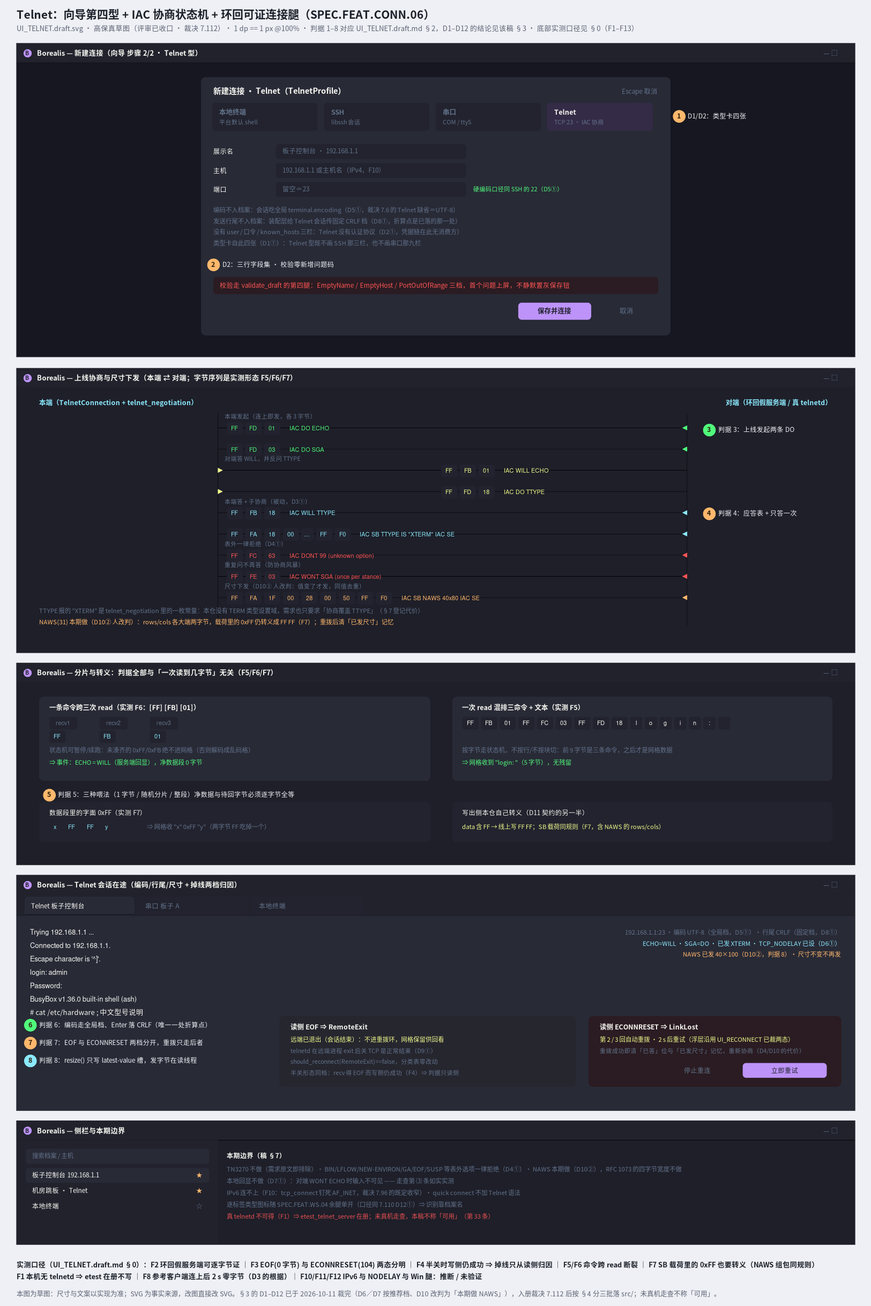
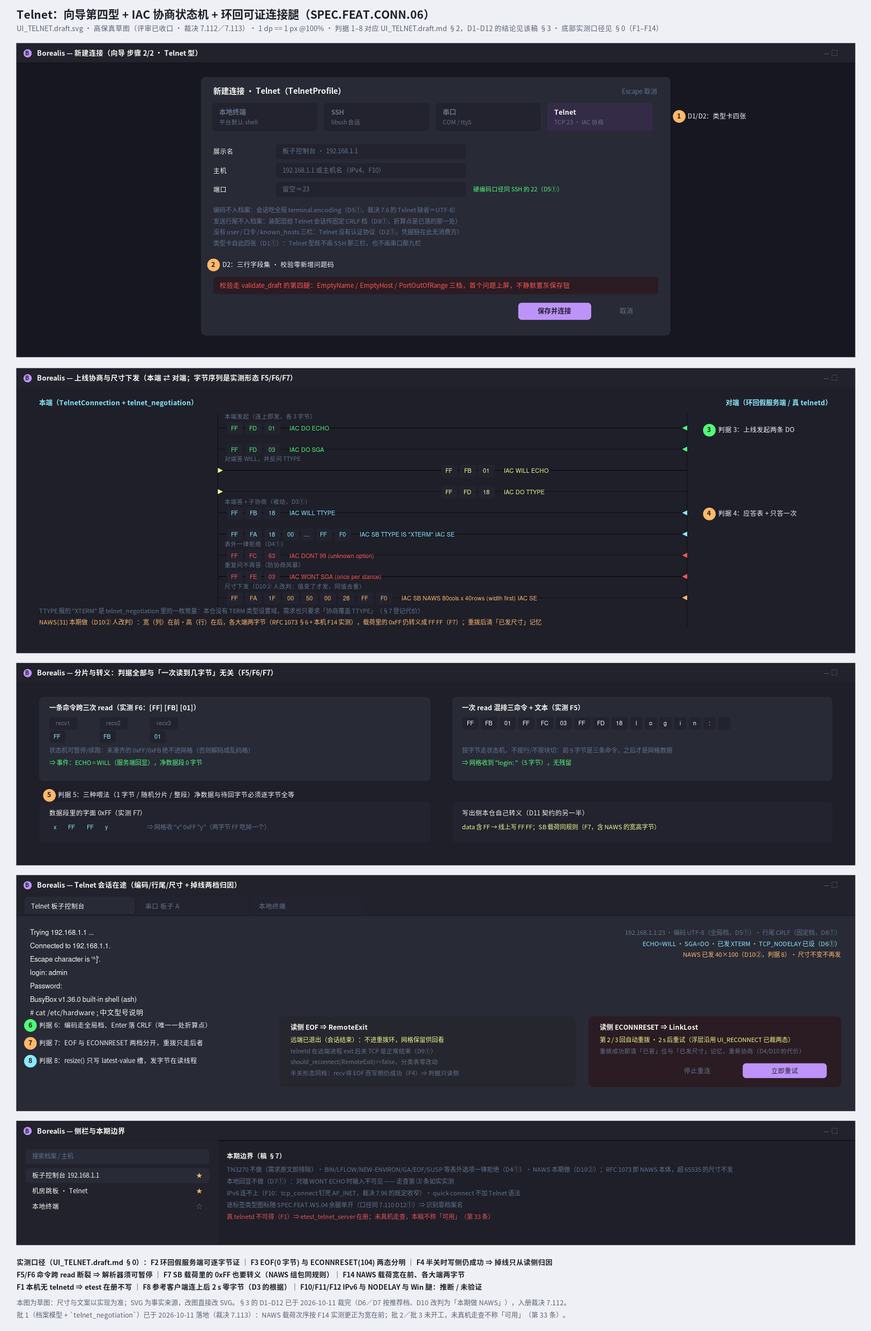
docs: 并入裁决 7.113 与 v0.113，NAWS 次序按 F14 实测改口
为什么：批 1 落地（`SPEC.FEAT.CONN.06`）时按 AGENTS §4.2 第 12 条把实现期
发现的口径差回写——稿面判据 8 原写 NAWS 载荷「rows 在前」，与 RFC 1073 §2
语法行、§6 例子（80 列×24 行 ⇒ `0 80 0 24`）以及本机 inetutils 2.7 客户端在
20 行×60 列 pty 上实测回的 `FF FA 1F 00 3C 00 14 FF F0`（新增读数 F14）三者
相反，代码按实测落，稿 §0／§2／§3／§4／§5／§6／§7／§8 与 SVG 一并照此改口；
同一条更正撤掉稿 §7 与裁决 7.112 ④「RFC 1073 是四字节宽度扩展」的错引（1073
就是 NAWS 本体，只有 `2+2` 字节），旧句按「就地更正 + 不重写历史」的既有体例
处理：SPECIFICATIONS 的 7.112 行内挂更正注，CHANGELOG 的 v0.112 条目原文不动。

口径与代价：⑴ 裁决 7.113 记六条——F14 改口、按字节可暂停状态机的契约、发起序
呼用即记账（`WONT ECHO` 是 D7① 线上唯一可见格）、同值去重比对源是「上一次真的
发出去的」、对端 `DONT NAWS` 只记状态位不停发（与规程文本的差集登记，真服务器
反应归稿 §6 走查第 ⑷ 条）、稿 §4 两处布局说法回写（JSON 读写在 `store.cpp`，
`profile.cpp` 补的是 `search()` 主机命中腿；`borealis_core` 源列表是显式清单）。
⑵ CONN.06 现状句与 `PLAN.md` 的 M4 行同步为「批 1 已落地、批 2/批 3 未开工」，
读数 78 项／963 案全绿，四条变异自证非空转。⑶ SVG 三处随文字改：屏 B 的 NAWS
字节行标号改 ASCII（原「80 列 × 40 行」在 monospace 档下 CJK 掉字）、屏 B caption
「高在前」笔误改「高（行）在后」、底部五条长行重排并把画布加高到 2384 以免裁字；
重出 PNG 后逐屏目检过。⑷ AGENTS.md §7 那句「新增 .cpp 经 GLOB 自动进构建」的
不准确处本条**不改**：该文件 8123 字节、离 8 KiB 静默截断线只剩 69 字节，加不进
这句更正，口径先记在裁决 7.113⑥ 与 v0.113 代价段。⑸ 本条零 `src/` 改动，用户侧
仍不可达，不称「可用」（§4.4 第 33 条）。

diff --git a/codespec/SPECIFICATIONS.md b/codespec/SPECIFICATIONS.md
@@ -227,7 +227,7 @@
 
 **SPEC.FEAT.CONN.05 串口终端** 串口枚举、波特率/数据位/停止位/校验/流控完整配置、断开重连、连接中热改波特率；默认编码 GB18030（见 SPEC.FEAT.TERM.09 / 裁决 7.6）；**发送行尾序列可配**（CR / LF / CRLF，默认 LF——发错设备无响应，属嵌入式调试刚需）；可选十六进制收发视图与行首时间戳前缀（延后子项）。**落地现状（2026-10-11，裁决 7.110）**：设计稿三件套 `codespec/UI_SERIAL.draft.{md,svg,png}`（五屏 A–E、圈号判据 1–7）**已收口**——D1–D13 经人裁为**全按推荐档、无一条改判**；交付面按稿 §4 分三批（批 1＝档案模型 + `conn::serial_model` + `platform::serial` 两腿 + `flow` 键，批 2＝`conn::serial_connection` + `Session` 行尾折算 + 替身设备 `itest`，批 3＝向导第三型 + `ui::serial_format` + `main.cpp` 装配）。**批 1–3 已全部落地（2026-10-11，裁决 7.107→7.111 的串口段：批 1＝`830a375`、批 2＝`740de20`、批 3 见裁决 7.111）——从档案到在途会话的串口通路在装配层完整，`src/main.cpp` 的两条 `TODO(SPEC.FEAT.CONN.05)` 全部闭合；真机走查六条未做，本条不称「可用」**。稿 §0 的十条本机实测读数（F1–F10）钉住可证面：真设备节点存在而 `open()` 回 EACCES ⇒ 帧格式与调制解调器线状态在 `pty` 替身上**不可判**，热改波特率的「写下去并回读相符」在替身上**可证**，Win32 腿标**推断／未验证**。批 3 落地期的四处拍板（设备行「可见行产值」、置灰经 `paint_item` 扩展点、一次枚举闸门经变异判为死重量而删除、`serial_format` 少落一族「CloseReason→串口文案」）见裁决 **7.111**。
 
-**SPEC.FEAT.CONN.06 Telnet** 基础 Telnet 客户端（不含 TN3270）；选项协商覆盖 ECHO / SGA / TTYPE；编码按 SPEC.FEAT.TERM.09 可配。**落地现状（2026-10-11，裁决 7.112）**：设计稿三件套 `codespec/UI_TELNET.draft.{md,svg,png}`（五屏 A–E、圈号判据 1–8）**已收口**——稿 §3 的 D1–D12 经人逐条裁决：**D6／D7 按推荐档，D10 改判「本期顺带做 `NAWS`(31)」**，其余九条按推荐档收口。交付面按稿 §4 分三批（批 1＝档案模型 + `conn::telnet_negotiation` 纯逻辑件与其 `utest`，批 2＝`conn::telnet_connection` + `platform::TcpStream::set_nodelay` + 环回 `itest`，批 3＝向导第四型 + `main.cpp` 装配）；**三批均未开工，本条不称「可用」**（AGENTS §4.4 第 33 条）。稿 §0 的十三条本机实测读数（F1–F13）钉住可证面：本机无 telnetd ⇒ `etest_telnet_server` 在册不写，而**环回假服务端可把整条 IAC 协商腿逐字节证**（本棒可证面强于串口那棒的 pty 替身）；`FF FF` 在数据段与 SB 载荷都出现、一条 `recv` 可混排三命令 + 文本、一条命令可断成三次读 ⇒ 解析器必须是**可暂停的按字节状态机**；掉线两态读数分明（EOF 0 字节 vs ECONNRESET 104）⇒ 归因不新增平台档位；半关时写侧仍连续成功 ⇒ 掉线只从读侧归因。编码入口取既有全局档 `terminal.encoding`（裁决 7.6 的 Telnet 缺省＝UTF-8），**不新增设置域键**。
+**SPEC.FEAT.CONN.06 Telnet** 基础 Telnet 客户端（不含 TN3270）；选项协商覆盖 ECHO / SGA / TTYPE；编码按 SPEC.FEAT.TERM.09 可配。**落地现状（2026-10-11，裁决 7.112／7.113）**：设计稿三件套 `codespec/UI_TELNET.draft.{md,svg,png}`（五屏 A–E、圈号判据 1–8）**已收口**——稿 §3 的 D1–D12 经人逐条裁决：**D6／D7 按推荐档，D10 改判「本期顺带做 `NAWS`(31)」**，其余九条按推荐档收口。交付面按稿 §4 分三批（批 1＝档案模型 + `conn::telnet_negotiation` 纯逻辑件与其 `utest`，批 2＝`conn::telnet_connection` + `platform::TcpStream::set_nodelay` + 环回 `itest`，批 3＝向导第四型 + `main.cpp` 装配）；**批 1 已落地（档案模型与 `conn/telnet_negotiation` 纯逻辑件＋`utest` 十条案；NAWS 载荷次序按 F14 实测＝宽在前落定，见裁决 7.113），批 2 与批 3 未开工，本条不称「可用」**（AGENTS §4.4 第 33 条）。稿 §0 的十四条本机实测读数（F1–F14）钉住可证面：本机无 telnetd ⇒ `etest_telnet_server` 在册不写，而**环回假服务端可把整条 IAC 协商腿逐字节证**（本棒可证面强于串口那棒的 pty 替身）；`FF FF` 在数据段与 SB 载荷都出现、一条 `recv` 可混排三命令 + 文本、一条命令可断成三次读 ⇒ 解析器必须是**可暂停的按字节状态机**；掉线两态读数分明（EOF 0 字节 vs ECONNRESET 104）⇒ 归因不新增平台档位；半关时写侧仍连续成功 ⇒ 掉线只从读侧归因。编码入口取既有全局档 `terminal.encoding`（裁决 7.6 的 Telnet 缺省＝UTF-8），**不新增设置域键**。
 
 **SPEC.FEAT.CONN.07 连接管理器 UI** 侧边栏：档案树 + 新建向导（按连接类型分步表单）；最近连接列表；快捷片段（snippets，Termius/XShell 语义）：常用命令片段库（分组/搜索/参数占位），单击或快捷键发送至当前会话（延后子项）。**落地现状（2026-10-09，裁决 7.94）**：侧栏/向导/凭据询问三件已落（设计稿 `codespec/UI_CONNECTIONS.draft.md` D1–D8 收口）——`src/ui/connection_sidebar.{h,cpp}`（左侧停靠卡片：搜索 + 三视图 + 星标收藏 + quick connect + 最近连接 + 新建/导入，行排序过滤全取 `conn::sidebar_rows` 纯逻辑）、`src/ui/connection_wizard.{h,cpp}`（两步：类型卡 → 字段集，校验走 `validate_draft`）、`src/ui/credential_prompt.{h,cpp}`（掩码输入，明文只经回调交本次认证）；装配层经 `connections.toggle` 命令唤起（不绑死键位，Q4/Q5），连上即记最近（`push_recent_connection`），`~/.ssh/config` 只读导入按确定性 id 去重（D5）。snippets 与逐标签连接类型图标（WS.04 边界）延后。
 
@@ -307,7 +307,7 @@
 
 ---
 
-## 7 已裁决项（7.1–7.4 于 2026-09-22、7.5–7.10 于 2026-09-23 落定；7.11–7.15 于 2026-09-29 追加，7.16–7.21 于 2026-09-30 追加，7.22–7.24 于 2026-10-01 追加，7.25–7.36 于 2026-10-02、7.37–7.48 于 2026-10-03、7.49–7.59 于 2026-10-04、7.60–7.65 于 2026-10-05、7.66–7.76 于 2026-10-06、7.77–7.81 于 2026-10-07、7.82–7.92 于 2026-10-08、7.93–7.102 于 2026-10-09 追加、7.103–7.109 于 2026-10-10 追加、7.110–7.112 于 2026-10-11 追加）
+## 7 已裁决项（7.1–7.4 于 2026-09-22、7.5–7.10 于 2026-09-23 落定；7.11–7.15 于 2026-09-29 追加，7.16–7.21 于 2026-09-30 追加，7.22–7.24 于 2026-10-01 追加，7.25–7.36 于 2026-10-02、7.37–7.48 于 2026-10-03、7.49–7.59 于 2026-10-04、7.60–7.65 于 2026-10-05、7.66–7.76 于 2026-10-06、7.77–7.81 于 2026-10-07、7.82–7.92 于 2026-10-08、7.93–7.102 于 2026-10-09 追加、7.103–7.109 于 2026-10-10 追加、7.110–7.113 于 2026-10-11 追加）
 
 | # | 议题 | 裁决 |
 |:---|:---|:---|
@@ -437,7 +437,8 @@
 | 7.109 | **`SPEC.FEAT.CONN.10` 批 3 落地（稿 §4 的「批 3 面板与装配，含目录腿」＝`ui::keys_panel` + `main.cpp` 装配）并随批 4 收口稿面回写与走查登记**（`src/ui/keys_panel.{h,cpp}` + `src/main.cpp` + `src/ui/settings_i18n.cpp` + `src/ui/keys_format.{h,cpp}` + `src/conn/key_model.h` + `src/conn/key_store.{h,cpp}` + `src/conn/key_push.{h,cpp}` + `src/CMakeLists.txt` + `tests/unit/utest_keys_format.cpp` + `tests/unit/utest_keys_store.cpp` + `tests/integration/itest_keys_panel.cpp` + `codespec/UI_KEYS.draft.md`；**判据不新增**，全部取自 7.106 已裁的 D1/D2/D4/D6/D7/D8/D9/D10/D11/D12） | ① **行表「有变才重建」的 diff 键是逐字段全等**：`KeyCandidate` 补 `operator==`（default）与 `public_base64` 字段——「复制／推送」交出的那一行**随扫盘一起交出**，理由是复制发生在按钮的点击回调里、现场读 `.pub` 就是回调中的同步 IO（AGENTS §4.5 第 25 条），而本腿算指纹时本来就握着公钥；取不出的两档（带口令又无 `.pub`、两族之外的算法族）留空串 ⇒ 面板据此把「复制／推送」整枚不画，行照常在场、照常可删（7.108 ① 那句「禁复制/推送归批 3 装配侧」在此兑现）。<br>② **推送阶梯格序的唯一来源是 `push_stage_index`**（随 `conn::key_push` 到货）：快照要能**不含 libssh 类型**地表达「走到哪一格」（7.97 D5① 面板只吃标准类型），故它在快照里存整数；那个整数的次序由**枚举的主人**定，面板或 `keys_format` 再排一遍就是第二真值源（第 3 条）。「哪一格亮」的措辞仍归 `ui::keys_format`（`key_push_ladder()`）。<br>③ **目录腿的「不留痕」闸收在面板**：D11②「空串＝取消或平台起不来同途」的落点在 `on_add_dir`——空选路整条返回（`add_dir` 不呼、重扫不起），装配层**不再备第二道空闸**（一个事实一处判）；落盘仍**逐字不去重**，规范化（去重、可达性、`~/.ssh` 恒在表首）是扫盘时 `normalize_key_dirs()` 的事。<br>④ **「已复制」没有 conn 枚举**：判据 4 的留痕是无枚举可映射的动作反馈，由装配层 `KeysWorker::publish_notice("keys.notice.copied")` 即时写快照（`main.cpp` 一处字面量，与面板自己的 key 字面量同口径）；不为它发明第二套枚举（第 3 条）。<br>⑤ **重建触发面按件拆三档**（稿 §5「行表有变才重建」的落地化）：主卡＝行表逐字段全等 **＋** 顶行留痕 key/arg 双比——动作不改行表只改留痕，单比行表看不见「已复制」；推送框＝在途档／阶梯格／留痕三样比对**就地重建**（框里没有输入草稿，重建不打断什么）；生成框**不随 tick 重建**（正在输入的草稿不被动），唯一自动出口是「快照离开 Generate 档」的 latch（用户自己取消过则标志已清），提交成功即置灰防连点、终值回投＋重扫行表到货时收框。<br>⑥ **口令接续**：导出/推送两腿遇行加密（F8 的探测结论）或档案认证方式要求时经 `credential_prompt` 询问（`SecretAsk` 按 `secret_ask_for(normalized_auth_method(…))` 取档），回调续交 secret 给 worker 任务；agent/无口令档传 nullopt 直走。明文只活在那一次调用栈（CONN.09 不变量，与批 2 同一条）。<br>⑦ **两处开发期被 itest 抓到的真缺陷如实登记**（非空转的活证）：生成提交钮的 `shared_ptr` 被 `std::move` 进节点树后成员置空、`set_enabled(false)` 落空（二次提交双呼）——改为**只拷不挪**进树；空选路照常呼 `add_dir`——按 ③ 收闸。<br>**代价与验收**：⑴ 非空转以 **5 处变异**自证**全红**——生成提交钮置灰摘除、空选路闸摘除、推送框重建判据摘除、顶行「无归属任务优先」摘除、行内途标记不点名路径，各由对应用例当场打红（`itest_keys_panel` 三处、`utest_keys_format` 两处）。⑵ 读数：`ctest --test-dir build -E etest_` **71 → 72 项全绿**，`borealis_test_runner` 全跑 **912 案全绿**（含 `etest_`）；本域在册六件＝`utest_keys_model` 16 案／`utest_keys_format` 16 案（+6：在途五档＋顶行三选一＋行内途标记点名＋`public_text` 单行＋阶梯次序＋口令双栏一致）／`utest_keys_store` 12 案（+1：`public_base64` 补字段两档）／`utest_keys_push` 2 案／`itest_keys_push` 2 案／`itest_keys_panel` 8 案（新件：行表随快照、真点复制、同名红提示不落盘、生成期置灰＋终值收框、推送阶梯推进与失败归因、删除两段式、目录腿钩子证接线、空态与不可达留痕上屏）。⑶ 批 4（文档回写与走查登记）随本裁决一并收口：稿 §4/§5/§6/§8 回写、`CHANGELOG.md` 记 v0.109、`PLAN.md` 两行回写。**仍不称「可用」**（第 33 条）：真机走查未做（稿 §6 那五项在册：卡片观感与行密度、passphrase 双栏手感、复制与推送两处留痕、生成期置灰反馈、Win32 真选择器手感）；POSIX「＋目录」等价取消（附录 A.2 的 **G41** 在册）；真 sshd 推送成功腿与「判重命中不发写」欠 `etest_`（同 7.96① / 7.100 的环境欠账）；Win32 腿未编译验证。 |
 | 7.110 | **`SPEC.FEAT.CONN.05` 串口终端设计稿收口：D1–D13 逐条裁决，全按推荐档、无一条改判**（`codespec/UI_SERIAL.draft.{md,svg,png}` 状态改口 + `SPECIFICATIONS.md` 的 CONN.05 现状句 + `CHANGELOG.md` v0.110 + `PLAN.md` 的 M3–M5 行回写；**本条零 `src/` 改动**，实现按稿 §4 分三批） | ① **地基是探针实测不是记忆**（稿 §0 的 F1–F10，一次性探针件不入仓）：本机 `/dev/ttyS0..15` 节点**全在而全不可开**（属组 `tty`＝gid 20，进程补充组里没有它 ⇒ `open()` 回 EACCES，沙箱无 sudo）——真设备腿与「参数真的下到了设备」那一档就此挡住；以 `pty.openpty()` 的 slave **路径**重开作替身设备，四条读数各自决定一条裁决的去向：**F4** 十四档标准波特率 `tcsetattr` 全收且回读 `c_ispeed`/`c_ospeed` 逐档相符 ⇒ 热改波特率的腿有无头证人；**F5** `CS6`/`CS7` 与「只置 `PARENB`」直接 EINVAL、`CS5`/`CS8` 收下而回读 `c_cflag` 与写入值不等 ⇒ 帧格式**只折位组合、不宣称设备侧生效**；**F7** `TIOCMGET` 回 ENOTTY ⇒ 调制解调器线状态不做（§7 延后）；**F8** 写方向 `ONLCR` 开与关读数逐字节相同 ⇒ **发送行尾不得指望设备规程改写**，由本仓自己拼字节；**F9** 替身掉线形态是 **EOF 而不是 EIO** ⇒ 两条都得进归因；另有 F3（本机无 `/dev/ttyUSB*`、无 `/dev/serial/by-id` ⇒ USB 友好名只登记形态）与 F10（无 MSVC 可编 ⇒ Win32 腿一切说法标**推断／未验证**，AGENTS §4.2 第 11 条）。<br>② **D1① 串口进档案模型**：`ConnectionType` 追加 `Serial` 一档 + 新 `SerialProfile{device_path, baud, data_bits, stop_bits, parity, flow, line_ending, encoding}` 挂进 `Profile`——公共头（`include/borealis/conn/profile.h`）自此是**追加式**扩型，不动既有成员与可见性（§4.1 第 6 条）；串口无凭据、只引用档案，天然过 `CONN.09` 的明文审计。<br>③ **D2①＋D9① 设备面**：设备行＝`Dropdown`（枚举快照）＋一枚「刷新」＋一档「自定义…」落手输；不可达项**照列 + 置灰 + 一句归因**，绝不「看不见就是没有」——F1 这台机器上过滤即得**一张空列表**，而「有节点没权限」正是嵌入式调试最常见的坑（用户不在 `dialout`/`tty` 组）。枚举只在「开行 / 点刷新 / 启动取一次」三处经串行 worker（**D8①**，不轮询、不改一张正在点着的表），UI 线程零目录 IO。<br>④ **D3① 流控键到货**：新增 `connection.serial.flow`（`none`/`hardware`/`software`，缺省 `none`）＝`config::SerialDefaults` 第七成员，需求原文「流控完整配置」没有第二条路；装载侧对缺该键的旧 `borealis.json` 回 `none` 且**不升 `schema_version`**（缺键即默认是既定宽容口径，7.26④）。既有六行 `connection.serial.*` 在反向核对表里由 `ConsumerStatus::Absent` 改判 `Wired`——本棒正是那六颗键的消费者。<br>⑤ **D4① 档案与设置域的关系**：新建串口档案时把 `settings.connection.serial` 七键**灌成具体值**存进档案，此后档案独立，不设「跟随默认」第二态（否则「这个会话此刻到底跑什么参数」要跨两处解析，而热改语义必须有一处唯一落点）。代价：设置页改默认值不回溯已在档的串口档案。档位表**不由 UI 现编**，收在 `conn::serial_model` 的一份常量表里（校验源与 Win 腿折算源同一份）。<br>⑥ **D5① 热改入口＝命令 `serial.set_baud`**（命令面板族，不绑键位）：不给每块串口 pane 加常驻工具条（低频动作换一条常驻高度，无先例），也不在编辑档案对话框加「应用到在途会话」钮（那会把「落盘的档案」与「在途会话的当前参数」两套语义焊死）。代价如实登记：入口藏得深，真机走查若不可接受再补视口内入口。<br>⑦ **D6② 生效判据取回读**：`tcsetattr` 后立刻 `tcgetattr`，档位相符才报「已切到 {0}」并更新「会话当前参数」，不相符报「设备侧拒绝：{0}」且界面**回到原档位**——返回 0 即报成功会在 F5 那类「内核收下但没落」的情形上会说谎，而这条的判据恰好就是「设备侧现在跑几波特」，错了整屏乱码。「档案波特率」与「会话当前波特率」是**两个量**，必须分开展示。<br>⑧ **D7① 掉线归因映射进既有 `session::CloseReason`，不新增枚举档**（该枚举的既定纪律＝「分类只是事实归因，新增档不改义」，且新增要重写 `should_reconnect` 分类表全表）：EACCES/EPERM/ENODEV→`Unknown`（按 7.99 D2① 的「未知即保守不可重拨」，不给权限问题无限重拨的机会）、ENXIO/EBUSY/节点暂缺→`DialNetwork`、**读侧 EIO 与 EOF 一并→`LinkLost`**——串口没有「远端进程正常结束」这一档，EOF 只代表设备没了，而 F9 说替身的形态恰恰只有 EOF，这一档映射也是无头腿能证重连的前提。重连环复用 `src/conn/reconnect.{h,cpp}`，不新写第二套。<br>⑨ **D10/D11 编码与行尾两处接线**：串口会话构造吃 `term::SessionEncoding{.name＝档案 encoding}`（缺省 GB18030，裁决 7.6），本地/SSH 恒 UTF-8 不变——`PLAN.md` 那条「串口默认 GB18030 随串口条落期」的在册尾巴随本棒出账；行尾**折算点在 `Session` 写出侧一处**（键入 Enter／粘贴 `Convert`／片段发送三路同源），`term::encode_key` 的字节表逐字节不动、仍产 CR（7.30 由 `utest_keymap` 锁死那张表），由 `Session` 在写出前把**单独一个 CR 字节**折成选定序列；折算点放连接腿会改写任意来源的 0x0D（含二进制粘贴），只治粘贴不治键入则手敲回车永远没响应（F8）。`src/main.cpp:156` 的 `TODO(SPEC.FEAT.CONN.05)` 随本棒消除。<br>⑩ **D12①＋D13 边界与验证形态**：逐标签连接类型图标不在本棒（一个改动一个意图，随 `SPEC.FEAT.WS.04` 余腿单开，本期识别靠档案名）；验证三层——`utest_serial_model`（折算表／取值域／行尾拼接／枚举投影）、`itest_serial_connection`（替身设备证调用序与回读，按 F4/F6 可证、按 F5/F7 **不判**，POSIX-only 按既有平台专属 TU 纪律编入）、`etest_serial_device`（真设备，F1 挡住 ⇒ 登记在册不写）。**不拿替身冒充真设备宣布「参数已生效」，也不因真设备不可达就跳过无头可证的两层。**<br>**代价与验收**：⑴ 本条**零 `src/` 改动**，实现按稿 §4 分三批独立提交（批 1 档案模型＋纯逻辑＋平台腿＋`flow` 键 / 批 2 连接腿＋`Session` 行尾折算＋替身 `itest` / 批 3 向导第三型＋`ui::serial_format`＋`main.cpp` 装配），每批以 `ctest --test-dir build -E etest_` 的项数与全案数结项（§4.4 第 21 条不认「应该更快了」，本棒同样不认「测了很多」）；⑵ 帧格式与线状态在替身上不可判 ⇒ 交付面只到「写得下去、回读得到、折算表逐档有证人」；⑶ 真设备 `etest_` 与 Windows/MSVC 腿两处环境欠账在册（与 CONN.08/10 待 sshd 那两处同档）；⑷ 稿 §6 六条真机走查在册（下拉友好名、置灰归因够不够排障、热改拒绝档手感、GB18030 中文双向、拔线掉线与重连浮层交接、设置默认值灌入新建档案），**未走查不称「可用」**（第 33 条）。 |
 | 7.111 | **`SPEC.FEAT.CONN.05` 批 3 落地：向导第三型（三张类型卡 + 串口九行）+ `ui::serial_format` + `main.cpp` 串口装配 + 设置核对表七行改判，新件 `itest_connection_wizard`**（`src/ui/connection_wizard.{h,cpp}` + `src/ui/serial_format.{h,cpp}`（新）+ `src/main.cpp` + `src/conn/profile_views.{h,cpp}` + `src/ui/settings_catalog.cpp` + `src/ui/settings_i18n.cpp` + `src/CMakeLists.txt` + 测试三件（`itest_connection_wizard` 新件 7 案／`utest_serial_format` 新件 3 案／`utest_profile_views` +2 案）与 `utest_settings_catalog` 改判 + `codespec/UI_SERIAL.draft.md` 回写，稿 §3 的 D1–D13 全部据此接线） | ① **设备行的产值口径＝「当前可见的那一行」**（D2① 的补充，稿面未写明）：列表档与手输档互斥切换时，另一份控件已随就地重建退场，故 `collect_draft()` 只从在场的那一行取值——切回列表档就把设备名清空，保存当场折成「设备不能为空」那句问题码。留着看不见的那串才算说谎（存进一份屏幕上没有的 `device_path`），清空则让「设备必填」在用户眼前当场兑现。这条口径是实现期由 itest 用例⑤ 反向打红后按 AGENTS §4.2 第 12 条以运行时为准定的，稿 §2 标号 2 的「三件套」据此回写。<br>② **置灰走框架文档化的 `paint_item` 扩展点，不登记框架缺口**（AGENTS §5 第 3 条）：`DeviceDropdown` 只覆写 Aurora 主仓 `codespec/widget/dropdown` 明写的两条 protected 虚函数之一，改的只有文本色（不可达行取 `chrome` 的弱化色），不碰渲染路径本体；**点选否决**不在绘制腿而在 `set_on_change` 的回退——`Dropdown::select()` 非虚、且 index 与当前相同时根本不回调，覆写与拦截两头都关着，唯一能落闸的地方就是变更回调里把选中项退回 `last_selectable_port_`。「置灰的那一档颜色对不对眼」属绘制判据，无头断言不了，如实留在稿 §6 走查第 ⑵ 条。<br>③ **一次枚举的闸门经变异注入判为死重量并删除**：批 3 原先在向导里留了一枚 `ports_requested_` 标志「本次打开只发一次」，变异把它整条摘除后 `itest_connection_wizard` **全绿**⇒ 该标志不承载任何行为（枚举发起面本来就只长在「开串口字段集」「点刷新」两处调用点上，就地重建那条路径根本不呼它）；反向变异把一次发起塞进 `build_content()`，用例③ 当场由 1 次涨到 4/5/9 次转红⇒ 承重的断言是「重建不得再发后台取数」那条计数，而非标志位。据此按 AGENTS §4.1 第 3 条删掉这层抽象，`request_port_scan()` 就是 `Hooks::refresh_ports` 的一次转发。<br>④ **实现期抓到一条会静默丢档案的真缺陷**（稿 §4 的三处出入之一，非稿面口径问题）：`Dropdown` 子类的构造函数若不把 `initial` 转发给基类，编辑一条串口档案时下拉恒显示「请选择设备」占位，保存即把 `device_path` 清成 `EmptyDevice`——用例⑥ 的 `issue_baud` 不上屏正是顺着这条链条追出来的。修法只在构造函数补 `aurora::Dropdown(std::move(options), initial)`，回写进稿 §4 作为「后续子类必须照做」的落地口径。<br>⑤ **`ui::serial_format` 的落下面比稿 §4 少一族**：参数名/可达性归因/行拼接三族照落（`connections.serial.*` 词条的**唯一**产出方，向导与装配层不再各自 switch 措辞，`tunnel_error_key` 同族纪律）；那句「CloseReason→串口文案」**不落**——掉线浮层是 `UI_RECONNECT.draft.md` 已裁的通用两态，其措辞按 `session::ReconnectStop` 分档而不按 `CloseReason` 分档，串口侧没有它的消费方（AGENTS §4.2 第 12 条回写，代价登记在稿 §7）。<br>⑥ **热改入口的两只框共用一只 `Dialog` 换 content**（`close_confirm` 与多行粘贴确认的同款形态）：实例须跨过「档位框→答话→回执框」那段生存期，`au::alert` 的 OK 钮不自带关闭，故关闭动作由调用方给的 `on_ok` 回调做。当前档在标题行「当前 {0}」只显一次；「档案波特率 vs 会话当前波特率」分处设置页/档案编辑器与这一行两侧（D6②）。腿未连（含退避期间）时 `set_baud` 恒 false，与「回读不符」共用「设备侧拒绝」那一句——对用户而言两者都是「这会儿没改成」。<br>**代价与验收**：⑴ 结项读数 `ctest --preset linux -E etest_` **77 项全绿**（本批 +1 项＝`itest_connection_wizard`），`borealis_test_runner` 全跑 **950 案全绿**（批 2 后基线 938，+12＝新件 7 + `utest_serial_format` 3 + `utest_profile_views` 2）；本域在册七件＝`utest_serial_model` 8／`utest_posix_serial_platform` 6／`itest_posix_serial_connection` 7／`utest_profile_views` 8／`utest_settings_catalog` 9／`utest_serial_format` 3（新）／`itest_connection_wizard` 7（新，无头真派发）。⑵ 非空转以两处变异自证：ⓐ 摘掉置灰行的 `set_on_change` 否决 ⇒ 用例④ 转红（断言承重）；ⓑ 见 ③ 的两次对读。⑶ 核对表七行 `connection.serial.*` 由 `Absent` 改判 `Wired`，消费方是 `ConnectionWizard::Hooks::serial_defaults`（D4① 的灌值点），生效档仍是 `NextSession`；`utest_settings_catalog` 的 `next_session` 期望表按字典序补入七键，`Absent` 行数 **28 → 21**。⑷ **UI 未真机走查，本条不称「可用」**（第 33 条）：稿 §6 六条在册，其中「置灰颜色」「下拉友好名」「热改拒绝档手感」「GB18030 中文双向」「拔线掉线与浮层交接」「默认值灌入新建档案」六项都要人眼；真设备 `etest_serial_device`（F1）与 Win32/MSVC 腿（F10）两处环境欠账同档在册。⑸ `src/main.cpp` 的 `TODO(SPEC.FEAT.CONN.05)` 两条随本批全部闭合（粘贴 `line_ending` 接线、Serial 型分流转本地/SSH 的连接腿），`ConnectionType::Serial` 自此在装配层有完整通路。⑹ 逐标签连接类型图标仍不在本棒（D12①，随 `SPEC.FEAT.WS.04` 余腿单开），串口标签本期与本地标签同形、识别靠档案名。 |
-| 7.112 | **`SPEC.FEAT.CONN.06` Telnet 设计稿收口：D1–D12 逐条裁决，D6／D7 按推荐档、D10 改判「本期顺带做 NAWS」**（`codespec/UI_TELNET.draft.{md,svg,png}` 状态改口 + 稿内六处连带回写 + `SPECIFICATIONS.md` 的 CONN.06 现状句 + `CHANGELOG.md` v0.112 + `PLAN.md` 的 M4 行回写；**本条零 `src/` 改动**，实现按稿 §4 分三批） | ① **地基是探针实测不是记忆**（稿 §0 的 F1–F13，一次性探针件不入仓）：本机**无 telnetd**（`telnetd` 不在 PATH、无 `/usr/sbin/in.telnetd`、23 端口无监听，只有 GNU inetutils 2.7 客户端）⇒ 真服务器腿与「对未请求 `DO` 的反应」那一档就此挡住，`etest_telnet_server` 在册不写；而 `bind(127.0.0.1:0)` 的**环回假服务端两端逐字节可查**（F2）⇒ 整条 IAC 协商腿可在真 socket 上证，本棒可证面**强于**串口那棒的 pty 替身。四条形态读数各自钉死一条判据：**F5** 一次 `recv` 混排 `[FF FD 01][FF FE 03][FF FD 18]` + `login: ` ⇒ 解析不许按行/按块切；**F6** 两端 `TCP_NODELAY` + 写读交替时一条命令以 `[FF] [FB] [01]` 三次读各 1 字节到达 ⇒ 状态机必须可暂停，且**未完成的命令段绝不进网格**；**F7** `FF FF` 在数据段与 SB 载荷**两处**都出现 ⇒ 反转义与写出侧转义都要覆盖子协商载荷；**F3** 掉线两态读数分明（对端 `SO_LINGER(1,0)` ⇒ `recv` 回 **ECONNRESET(104)**；对端有序 FIN ⇒ `recv` 回 **0 字节 EOF**）⇒ 归因在既有 `TcpReadOutcome` 上有唯一映射，**不为 Telnet 新增平台档位**；**F4** 半关（对端只 `shutdown(SHUT_WR)`）时本端 `recv` 得 EOF 而写侧仍连续两次 `sendall` 成功 ⇒ **掉线一律从读侧归因**，界面不得据写成功报「已送达」。另有 F8（参考客户端连上后 2 s 内**零字节** ⇒ 「全被动应答」现实可行，但也证明「双方都等」会双双沉默）、F9（拒连 errno 111 / 不可路由地址按给定档 0.40 s 超时返回）、F10（`tcp_connect` 的 hints 钉死 `AF_INET` ⇒ 纯 IPv6 连不上，裁决 7.96 的既定收窄）、F11（全仓 grep 无 `TCP_NODELAY`）、F12（无 MSVC ⇒ Win 腿一切说法标**推断／未验证**，AGENTS §4.2 第 11 条）、F13（空闲读超时不吞数据）。<br>② **D6① 为交互延迟动平台抽象，但只动一处**：给 `platform::TcpStream` 追加一枚 `set_nodelay()`（纯虚，两腿各一次 `setsockopt`），**只在 Telnet 腿呼**。不在 `tcp_connect` 里全局设上——那会顺手改掉既有隧道转发腿的线上行为，违背「一个改动一个意图」；`TcpStream` 只有两个实现、全仓无派生替身 ⇒ 改面可穷举。「不设 NODELAY 时最坏多吃一档 40 ms 级延迟」按 §4.2 第 11 条标**推断／未验证**，真机走查第 ⑹ 条补账。<br>③ **D7① 对端 `WONT ECHO` 时不做本地回显、也不出提示**：需求只要求「协商覆盖 ECHO」，结论只记状态位。本地回显要在会话侧新造一条「输入可见」通道，转义序列（方向键不该回显成字面 `^[[A`）、CR 回显要补 LF、编码半字符要各自处理——一处没对齐就是半截实现（§4.1 第 3 条）；给一个本棒不解决的事实配一句常驻措辞同样不做。代价如实登记：真遇到不回显的服务器，用户看不见自己敲的字（主流 telnetd 与 busybox 都 `WILL ECHO`，属边缘），走查第 ⑶ 条实测后按**到货的消费方**单开。<br>④ **D10 人改判为②：本期顺带做 `NAWS`(31)**（稿面原推荐是「不做、`resize()` 取有意的空操作」）。改判理由：本仓的分屏（`SPEC.FEAT.WS.02`）与窗口缩放**本就会呼 `resize()`**，尺寸不协商即远端停在 80×24、全屏程序（`vi`/`top`）排版失真——收益在既有产品形态里立刻可感，不是「将来才用」的抽象。四条代价随改判一并吃下：ⓐ 新增一档**客户端发起**的子协商（`IAC SB NAWS <rows hi lo><cols hi lo> IAC SE`，行列各大端两字节），判据多出稿 §2 的第 **8** 条；ⓑ 尺寸跨线程**只走 latest-value 槽**且**同值去重**，否则拖动分屏形成协商风暴（§4.5 第 25 条：UI 线程在事件/绘制路径零 IO、零 socket 写）；ⓒ 重拨后「已发尺寸」记忆清零，与 D4① 的「已答」位同档；ⓓ 本机无 telnetd ⇒ 真服务器对 NAWS 的反应以走查第 ⑷ 条实测。RFC 1073 的四字节宽度扩展仍不做。**连带回写六处**：稿 §2 新增判据 8、§3 D10 行、§4 的 `telnet_negotiation` 与 `telnet_connection` 两行（`resize()` 自此**不是**空操作）、§5 数据流多一条尺寸下发腿、§6 新增 NAWS 组包/去重/清零的验收条目与走查第 ⑷ 条改口、§7 把 NAWS 移出「不做」清单。<br>⑤ **其余九条按稿面推荐档收口**：**D1①** Telnet 进档案模型（`ConnectionType` 追加 `Telnet` + 新 `TelnetProfile{host, port=23}`，公共头只追加、不动既有成员与可见性，照裁决 7.110 D1① 的先例；`store.cpp` 的 `EnumName` 表与 `profile_views` 的三处按型分派各补第四腿）；**D2①** 向导第四型只三行（展示名/主机/端口，端口留空＝23 同 SSH 的 22 那条硬编码口径），**不造没有消费方的凭据链**——Telnet 无认证协议，登录提示由远端程序给，「存进档案的口令」只能靠自动敲 `login:`/`Password:` 兑现，那是脚本功能且会牵动 `CONN.09`；**D3①** 连上即发 `DO ECHO` + `DO SGA`、`TTYPE` 只在被问时答（F8 的双面读数是本条根据）；**D4①** 表外选项一律拒绝且**同一立场只答一次**（② 会让对端一直等在协商里，③ 在对端有重试逻辑时形成应答风暴），「已答」位随重拨清零；**D5①** 不新增设置域键（需求点名的「编码可配」入口本来就是 `terminal.encoding`，裁决 7.6 明写 Telnet 缺省 UTF-8 ⇒ 全局档；串口那棒开 `flow` 键是因为需求原文点名流控），故 `settings_catalog` 与那张反向核对表**零改动**；**D8①** 装配层给 Telnet 会话传**固定** `term::LineEnding::CRLF`（NVT 的行结束即 CR LF），折算点复用裁决 7.110 D11① 落的 `Session::write_out()` 那一处，不入档案；**D9①** 读侧 EOF→`RemoteExit`（**不**重拨）、读侧 `Error`（含 ECONNRESET）→`LinkLost`（重拨）、建连失败→`DialNetwork`（重拨），分类表零改动；**D11①** 协商拆成纯逻辑件 `conn/telnet_negotiation`（无 socket、无 `au::`，七类用例全不需要网络），连接腿私有持有；**D12①** 三层验证＝`utest_telnet_negotiation` + 环回真 socket 的 `itest_telnet_connection` + 在册不写的 `etest_telnet_server`。<br>⑥ **D9① 与裁决 7.110 D7① 的分野是协议语义，不是抄漏**：串口那棒把读侧 EOF 归 `LinkLost` 进重拨环，因为串口根本没有「远端进程」这个概念，EOF 只代表设备没了；Telnet 是网络登录会话，telnetd 在远端进程 `exit` 后关 TCP 属**正常结束**，`should_reconnect(RemoteExit) == false` 正是「登录退出后不要无限重拨」。两档在界面上分开显示（`RemoteExit` 一句「远端已退出」＋网格保留回看；`LinkLost` 走既有退避环与 `UI_RECONNECT.draft.md` 已裁的两态浮层）。此段口径同时写进稿 §2 判据 7 与 §3 D9 行，防后人误读成不一致。<br>**代价与验收**：⑴ 本条**零 `src/` 改动**，实现按稿 §4 分三批独立提交（批 1 档案模型 + 协商纯逻辑件 / 批 2 连接腿 + `set_nodelay` + 环回 `itest` / 批 3 向导第四型 + 装配 + 词条族），每批以 `ctest --preset linux -E etest_` 的项数与 `borealis_test_runner` 全案数结项（§4.4 第 21 条不认「测了很多」）。⑵ 非空转按第 22 条自证，稿 §6 点名三条承重变异：摘 `FF FF` 反转义 ⇒ 转义用例转红；把未完成命令段漏进 `on_bytes` ⇒ 三种喂法的等价性用例转红；把 NAWS 的大端字节序写反或摘掉同值去重 ⇒ 组包用例转红。⑶ 三处环境欠账在册：真 telnetd 的 `etest_telnet_server`（F1）、Windows/MSVC 腿未经编译验证（F12，含本棒追加的 `set_nodelay` Win 侧实现）、IPv6（F10 的既定收窄）。⑷ 稿 §7 另登记五条不做面：`NAWS` 之外的表外选项与 RFC 1073、`CR NUL` 数据段转义（属**推断／未验证**，待 etest 取读数）、保活与半开检测（F4 ⇒「对端静默死亡」本期表现为一直等）、quick connect 的 Telnet 语法（现属 SSH 语义）、逐标签连接类型图标（随 `WS.04` 余腿）。⑸ 稿 §6 六条真机走查在册（发起 `DO` 的服务器反应、只认 CR 的老设备、`WONT ECHO` 的可接受度、**NAWS 在真服务器上的实际生效观感**、四张类型卡的行宽、`TCP_NODELAY` 前后的逐键手感差值），**未走查不称「可用」**（第 33 条）。 |
+| 7.112 | **`SPEC.FEAT.CONN.06` Telnet 设计稿收口：D1–D12 逐条裁决，D6／D7 按推荐档、D10 改判「本期顺带做 NAWS」**（`codespec/UI_TELNET.draft.{md,svg,png}` 状态改口 + 稿内六处连带回写 + `SPECIFICATIONS.md` 的 CONN.06 现状句 + `CHANGELOG.md` v0.112 + `PLAN.md` 的 M4 行回写；**本条零 `src/` 改动**，实现按稿 §4 分三批） | ① **地基是探针实测不是记忆**（稿 §0 的 F1–F13，一次性探针件不入仓）：本机**无 telnetd**（`telnetd` 不在 PATH、无 `/usr/sbin/in.telnetd`、23 端口无监听，只有 GNU inetutils 2.7 客户端）⇒ 真服务器腿与「对未请求 `DO` 的反应」那一档就此挡住，`etest_telnet_server` 在册不写；而 `bind(127.0.0.1:0)` 的**环回假服务端两端逐字节可查**（F2）⇒ 整条 IAC 协商腿可在真 socket 上证，本棒可证面**强于**串口那棒的 pty 替身。四条形态读数各自钉死一条判据：**F5** 一次 `recv` 混排 `[FF FD 01][FF FE 03][FF FD 18]` + `login: ` ⇒ 解析不许按行/按块切；**F6** 两端 `TCP_NODELAY` + 写读交替时一条命令以 `[FF] [FB] [01]` 三次读各 1 字节到达 ⇒ 状态机必须可暂停，且**未完成的命令段绝不进网格**；**F7** `FF FF` 在数据段与 SB 载荷**两处**都出现 ⇒ 反转义与写出侧转义都要覆盖子协商载荷；**F3** 掉线两态读数分明（对端 `SO_LINGER(1,0)` ⇒ `recv` 回 **ECONNRESET(104)**；对端有序 FIN ⇒ `recv` 回 **0 字节 EOF**）⇒ 归因在既有 `TcpReadOutcome` 上有唯一映射，**不为 Telnet 新增平台档位**；**F4** 半关（对端只 `shutdown(SHUT_WR)`）时本端 `recv` 得 EOF 而写侧仍连续两次 `sendall` 成功 ⇒ **掉线一律从读侧归因**，界面不得据写成功报「已送达」。另有 F8（参考客户端连上后 2 s 内**零字节** ⇒ 「全被动应答」现实可行，但也证明「双方都等」会双双沉默）、F9（拒连 errno 111 / 不可路由地址按给定档 0.40 s 超时返回）、F10（`tcp_connect` 的 hints 钉死 `AF_INET` ⇒ 纯 IPv6 连不上，裁决 7.96 的既定收窄）、F11（全仓 grep 无 `TCP_NODELAY`）、F12（无 MSVC ⇒ Win 腿一切说法标**推断／未验证**，AGENTS §4.2 第 11 条）、F13（空闲读超时不吞数据）。<br>② **D6① 为交互延迟动平台抽象，但只动一处**：给 `platform::TcpStream` 追加一枚 `set_nodelay()`（纯虚，两腿各一次 `setsockopt`），**只在 Telnet 腿呼**。不在 `tcp_connect` 里全局设上——那会顺手改掉既有隧道转发腿的线上行为，违背「一个改动一个意图」；`TcpStream` 只有两个实现、全仓无派生替身 ⇒ 改面可穷举。「不设 NODELAY 时最坏多吃一档 40 ms 级延迟」按 §4.2 第 11 条标**推断／未验证**，真机走查第 ⑹ 条补账。<br>③ **D7① 对端 `WONT ECHO` 时不做本地回显、也不出提示**：需求只要求「协商覆盖 ECHO」，结论只记状态位。本地回显要在会话侧新造一条「输入可见」通道，转义序列（方向键不该回显成字面 `^[[A`）、CR 回显要补 LF、编码半字符要各自处理——一处没对齐就是半截实现（§4.1 第 3 条）；给一个本棒不解决的事实配一句常驻措辞同样不做。代价如实登记：真遇到不回显的服务器，用户看不见自己敲的字（主流 telnetd 与 busybox 都 `WILL ECHO`，属边缘），走查第 ⑶ 条实测后按**到货的消费方**单开。<br>④ **D10 人改判为②：本期顺带做 `NAWS`(31)**（稿面原推荐是「不做、`resize()` 取有意的空操作」）。改判理由：本仓的分屏（`SPEC.FEAT.WS.02`）与窗口缩放**本就会呼 `resize()`**，尺寸不协商即远端停在 80×24、全屏程序（`vi`/`top`）排版失真——收益在既有产品形态里立刻可感，不是「将来才用」的抽象。四条代价随改判一并吃下：ⓐ 新增一档**客户端发起**的子协商（`IAC SB NAWS <rows hi lo><cols hi lo> IAC SE`，行列各大端两字节），判据多出稿 §2 的第 **8** 条；ⓑ 尺寸跨线程**只走 latest-value 槽**且**同值去重**，否则拖动分屏形成协商风暴（§4.5 第 25 条：UI 线程在事件/绘制路径零 IO、零 socket 写）；ⓒ 重拨后「已发尺寸」记忆清零，与 D4① 的「已答」位同档；ⓓ 本机无 telnetd ⇒ 真服务器对 NAWS 的反应以走查第 ⑷ 条实测。RFC 1073 的四字节宽度扩展仍不做（**该句是错引，2026-10-11 批 1 落地时按实测就地更正，见裁决 7.113① 与稿 §0 新增的 F14：RFC 1073 就是 NAWS 本体，载荷只有 `WIDTH[1] WIDTH[0] HEIGHT[1] HEIGHT[0]` 这 `2+2` 字节，不存在四字节加长形态；同处该写的实为「超过 65535 的尺寸不发」，且载荷次序按 F14 是宽在前、高在后**）。**连带回写六处**：稿 §2 新增判据 8、§3 D10 行、§4 的 `telnet_negotiation` 与 `telnet_connection` 两行（`resize()` 自此**不是**空操作）、§5 数据流多一条尺寸下发腿、§6 新增 NAWS 组包/去重/清零的验收条目与走查第 ⑷ 条改口、§7 把 NAWS 移出「不做」清单。<br>⑤ **其余九条按稿面推荐档收口**：**D1①** Telnet 进档案模型（`ConnectionType` 追加 `Telnet` + 新 `TelnetProfile{host, port=23}`，公共头只追加、不动既有成员与可见性，照裁决 7.110 D1① 的先例；`store.cpp` 的 `EnumName` 表与 `profile_views` 的三处按型分派各补第四腿）；**D2①** 向导第四型只三行（展示名/主机/端口，端口留空＝23 同 SSH 的 22 那条硬编码口径），**不造没有消费方的凭据链**——Telnet 无认证协议，登录提示由远端程序给，「存进档案的口令」只能靠自动敲 `login:`/`Password:` 兑现，那是脚本功能且会牵动 `CONN.09`；**D3①** 连上即发 `DO ECHO` + `DO SGA`、`TTYPE` 只在被问时答（F8 的双面读数是本条根据）；**D4①** 表外选项一律拒绝且**同一立场只答一次**（② 会让对端一直等在协商里，③ 在对端有重试逻辑时形成应答风暴），「已答」位随重拨清零；**D5①** 不新增设置域键（需求点名的「编码可配」入口本来就是 `terminal.encoding`，裁决 7.6 明写 Telnet 缺省 UTF-8 ⇒ 全局档；串口那棒开 `flow` 键是因为需求原文点名流控），故 `settings_catalog` 与那张反向核对表**零改动**；**D8①** 装配层给 Telnet 会话传**固定** `term::LineEnding::CRLF`（NVT 的行结束即 CR LF），折算点复用裁决 7.110 D11① 落的 `Session::write_out()` 那一处，不入档案；**D9①** 读侧 EOF→`RemoteExit`（**不**重拨）、读侧 `Error`（含 ECONNRESET）→`LinkLost`（重拨）、建连失败→`DialNetwork`（重拨），分类表零改动；**D11①** 协商拆成纯逻辑件 `conn/telnet_negotiation`（无 socket、无 `au::`，七类用例全不需要网络），连接腿私有持有；**D12①** 三层验证＝`utest_telnet_negotiation` + 环回真 socket 的 `itest_telnet_connection` + 在册不写的 `etest_telnet_server`。<br>⑥ **D9① 与裁决 7.110 D7① 的分野是协议语义，不是抄漏**：串口那棒把读侧 EOF 归 `LinkLost` 进重拨环，因为串口根本没有「远端进程」这个概念，EOF 只代表设备没了；Telnet 是网络登录会话，telnetd 在远端进程 `exit` 后关 TCP 属**正常结束**，`should_reconnect(RemoteExit) == false` 正是「登录退出后不要无限重拨」。两档在界面上分开显示（`RemoteExit` 一句「远端已退出」＋网格保留回看；`LinkLost` 走既有退避环与 `UI_RECONNECT.draft.md` 已裁的两态浮层）。此段口径同时写进稿 §2 判据 7 与 §3 D9 行，防后人误读成不一致。<br>**代价与验收**：⑴ 本条**零 `src/` 改动**，实现按稿 §4 分三批独立提交（批 1 档案模型 + 协商纯逻辑件 / 批 2 连接腿 + `set_nodelay` + 环回 `itest` / 批 3 向导第四型 + 装配 + 词条族），每批以 `ctest --preset linux -E etest_` 的项数与 `borealis_test_runner` 全案数结项（§4.4 第 21 条不认「测了很多」）。⑵ 非空转按第 22 条自证，稿 §6 点名三条承重变异：摘 `FF FF` 反转义 ⇒ 转义用例转红；把未完成命令段漏进 `on_bytes` ⇒ 三种喂法的等价性用例转红；把 NAWS 的大端字节序写反或摘掉同值去重 ⇒ 组包用例转红。⑶ 三处环境欠账在册：真 telnetd 的 `etest_telnet_server`（F1）、Windows/MSVC 腿未经编译验证（F12，含本棒追加的 `set_nodelay` Win 侧实现）、IPv6（F10 的既定收窄）。⑷ 稿 §7 另登记五条不做面：`NAWS` 之外的表外选项与 RFC 1073、`CR NUL` 数据段转义（属**推断／未验证**，待 etest 取读数）、保活与半开检测（F4 ⇒「对端静默死亡」本期表现为一直等）、quick connect 的 Telnet 语法（现属 SSH 语义）、逐标签连接类型图标（随 `WS.04` 余腿）。⑸ 稿 §6 六条真机走查在册（发起 `DO` 的服务器反应、只认 CR 的老设备、`WONT ECHO` 的可接受度、**NAWS 在真服务器上的实际生效观感**、四张类型卡的行宽、`TCP_NODELAY` 前后的逐键手感差值），**未走查不称「可用」**（第 33 条）。 |
+| 7.113 | **`SPEC.FEAT.CONN.06` 批 1 落地（档案第四型 + `conn::telnet_negotiation` 纯逻辑件），稿面 NAWS 载荷次序按新增的 F14 实测改口**（`include/borealis/conn/profile.h` + `src/config/store.cpp` + `src/conn/profile.cpp` + `src/conn/profile_views.{h,cpp}` + `src/conn/telnet_negotiation.{h,cpp}`（新）+ `src/CMakeLists.txt` + `tests/unit/utest_config.cpp` + `tests/unit/utest_profile.cpp` + `tests/unit/utest_profile_views.cpp` + `tests/unit/utest_telnet_negotiation.cpp`（新）+ `codespec/UI_TELNET.draft.{md,svg,png}` 四处改口 + `CHANGELOG.md` v0.113 + `PLAN.md` 的 CONN.06 行回写） | ① **实现期把稿面的一条协议口径判成错的，按实测改口**（AGENTS §4.2 第 12 条：冲突以代码运行时为准）：NAWS 载荷的字节次序原稿写 `<rows hi lo><cols hi lo>`，三条独立读数一致指向**宽（列）在前**——RFC 1073 §2 的语法行 `IAC SB NAWS WIDTH[1] WIDTH[0] HEIGHT[1] HEIGHT[0] IAC SE`、同条 §6 的例子（80 列×24 行 ⇒ `0 80 0 24`）、本机 GNU inetutils 2.7 客户端在 `TIOCSWINSZ` 设成 20 行×60 列的 pty 上对 `IAC DO NAWS` 实际回的 `FF FB 1F FF FA 1F 00 3C 00 14 FF F0`（稿 §0 新增 **F14**）。据此改稿 §2 判据 8／§3 D10 行／§5 尺寸腿／§6 断言（`window_size_command(40, 130)` ⇒ `FF FA 1F 00 82 00 28`）与 SVG 屏 B 的那串字节。同一条更正改掉稿 §7 与裁决 7.112 ④ 把 **RFC 1073 说成「四字节宽度扩展」**的错引：1073 就是 NAWS 本体，只有 `2+2` 字节形态。<br>② **协商件的契约按 F5/F6/F7 落实为「按字节、可暂停、绝不漏半个命令」**：六档解析状态（数据／等命令／等选项／SB 选项／SB 载荷／载荷内等终止）都停在任意字节之间；未完成的命令段绝不进净数据，单字节命令（NOP/GA/表外）只吞它本身而不吃后一字节，SB 载荷在等到 `IAC SE` 前**不回到数据段**——畸形载荷宁可持续吞字节，也不把裸字节当数据解码成乱码格。核心证人是等价性用例：同一段字节流按 1 字节／定值分片／整段三种喂法，净数据与待回字节必须逐字节全等。<br>③ **发起序呼用即记账**（D3①＋D4① 的合流处）：`opening_commands()` 交出 `IAC DO ECHO`＋`IAC DO SGA` 的同时把这两项立场记成已表态，故服务端回 `WILL ECHO` 不再换来第二条 `DO`；`DO ECHO` 明确答 `WONT ECHO`＝D7①「不做本地回显」在线上唯一可见的那一格；`reset_for_redial()` 交回一个默认构造的自身，解析态／已答记账／状态位／已发尺寸四样一起复位（重连后同一台服务器可改口）。<br>④ **同值去重的比对源是「上一次真的发出去的」**：拖回旧值仍要发（否则服务器停在上一个尺寸），越界与 0 值**不发也不记账**（下一次合法尺寸照样出得去）；NAWS 载荷里的 0xFF 走同一份转义，`24×65535` 展开成四个 `FF`。<br>⑤ **一处与规程文本的既定分歧如实登记，不预建分支**：对端 `DONT NAWS` 只记状态位、**不**据此停发——稿 §2 判据 8（D10② 人改判）定的是无条件下发，而 RFC 1073 §2 有「服务器可禁止后续子协商」一句；差集写进实现注释，真服务器的反应归稿 §6 走查第 ⑷ 条，本棒不自行扩面（§4.1 第 1 条）。<br>⑥ **稿 §4 的两处布局说法按代码回写**：ⓐ telnet 子结构的 JSON 读写**住在 `src/config/store.cpp`**（`EnumName` 表追加 `telnet` + `telnet_profile_to_json`/`read_telnet_profile` 四向分派），`src/conn/profile.cpp` 补的是 `ProfileStore::search()` 的主机命中腿——出稿时这行写反了；ⓑ `src/CMakeLists.txt` 的 `borealis_core` 源列表是**显式清单**（只有 tests 走 `CONFIGURE_DEPENDS` GLOB），新 TU 不手写进去就在链接期 undefined reference，AGENTS §7 那句「新增 .cpp 自动进构建」只对测试成立。<br>**代价与验收**：⑴ 结项读数 `ctest --preset linux -E etest_` **78 项全绿**（本批 +1＝`utest_telnet_negotiation`），`borealis_test_runner` 全跑 **963 案全绿**（批 1 之一后基线 953，+10＝协商件 10 案）。⑵ 非空转按 §4.4 第 22 条自证**四条变异各转红**：摘 `FF FF` 反转义 ⇒ 3 案红（转义／等价性／复位后数据段）；解析态不跨读保留（把状态打回数据段）⇒ 断裂案与等价性案红；宽高次序写回「行在前」⇒ 3 案红；摘同值去重 ⇒ 去重案红。⑶ 批 1 之二落地即登记的一条本仓既有事实修正：`include/borealis/conn/profile.h` 的 `ConnectionType` 自此有四档，`Profile` 有 `telnet` 子结构，向导侧第四型的字段集与装配仍属批 3——`SPEC.FEAT.CONN.07` 的类型卡数仍是三张。⑷ 在册欠账不变：真 telnetd 的 `etest_telnet_server`（F1）、Win32/MSVC 腿未经编译验证（F12）、IPv6（F10 的既定收窄）、`CR NUL` 转义与保活检测（稿 §7）；稿 §6 六条真机走查全在册。**批 2（`conn::telnet_connection` + `TcpStream::set_nodelay` + 环回 `itest`）与批 3（向导第四型 + `main.cpp` 装配 + 词条族）未开工，本条不称「可用」**（第 33 条）。 |
 
 ## 附录 A Aurora 框架现状与缺口分析（2026-09-20 实测，2026-09-22、2026-09-29、2026-09-30、2026-10-01、2026-10-02、2026-10-03、2026-10-04、2026-10-05、2026-10-06 与 2026-10-07 复核）
 

diff --git a/codespec/CHANGELOG.md b/codespec/CHANGELOG.md
@@ -4,6 +4,14 @@
 > 规格书正文只述需求，不含优先级与交付分期（那部分属 [`PLAN.md`](PLAN.md)）。本文件是历史记录：早期版本条目沿用其**当时**的优先级与里程碑口径原文，不做回填改写，以便对照每一次调整的取舍依据。
 > 现行需求标识规范见 [`SPECIFICATIONS.md`](SPECIFICATIONS.md) §1.4。
 
+## v0.113（2026-10-11）**`SPEC.FEAT.CONN.06` 批 1 落地：Telnet 档案第四型进连接模型与 JSON 存储 + `conn/telnet_negotiation` 纯逻辑 IAC 状态机与其 `utest`；稿面 NAWS 载荷次序按新增实测 F14 就地改口**（`include/borealis/conn/profile.h` + `src/config/store.cpp` + `src/conn/profile.cpp` + `src/conn/profile_views.{h,cpp}` + `src/conn/telnet_negotiation.{h,cpp}`（新）+ `src/CMakeLists.txt` + 测试四件（`utest_telnet_negotiation` 新件、`utest_config`／`utest_profile`／`utest_profile_views` 补改）+ `codespec/UI_TELNET.draft.{md,svg,png}` 状态块与 §0／§2／§3／§4／§5／§6／§7／§8 改口 + `SPECIFICATIONS.md` 的裁决 7.113 与 CONN.06 现状句 + 对裁决 7.112 ④ 那句错引的就地更正 + `PLAN.md` 的 M4 行回写，判据入册为裁决 **7.113**）
+
+**动机**：批 1 是稿 §4 三批里「不碰 socket 也能把协议面证干净」的那一批，两条意图各占一个提交（§4.6 第 26 条）：档案模型让 Telnet 成为 `ConnectionType` 的第四档、子结构落进既有 JSON 存储与四条读写/校验/搜索腿；`conn::telnet_negotiation` 按 D11① 把 IAC 状态机从连接腿里拆出来，使判据 4 的应答表与 D10② 的 NAWS 组包在纯逻辑层就逐字节可断言（§4.4 第 20 条）。写码前按 §4.1 第 5 条把稿面唯一一条线上格式口径拿一手规程文本加真客户端字节复核，结果抓到一条错处 ⇒ 本条同时承担「冲突以代码运行时为准并回填」那次回写（§4.2 第 12 条）。
+
+**决定形态的口径**：⑴ **档案只有两枚字段**：`TelnetProfile{host, port=23}`——Telnet 没有认证协议，「存进档案的口令」没有消费方（D2①），编码走全局档 `terminal.encoding`、发送行尾由装配层给固定 CRLF（D5①／D8①），两者都不入档案；类型域是**追加式扩型**，`Profile` 既有成员与可见性一字未动（第 6 条）；该结构无凭据字段，天然通过 `SPEC.FEAT.CONN.09` 的明文凭据审计。⑵ **向导侧零新增问题码**：主机必填与端口区间都复用 SSH 那两档（`EmptyHost` 等），`profile_views` 的校验与回填只多一条分支——裁决时那条「字段集三行、不造新码」的口径在代码里兑现了。⑶ **JSON 读写住在 `src/config/store.cpp`**：`EnumName` 表追加 `telnet` 一档，`telnet_profile_to_json`／`read_telnet_profile` 进四向分派（写侧 `item.set("telnet", …)`、读侧按 type 取子节点）；`src/conn/profile.cpp` 补的是 `ProfileStore::search()` 的主机命中腿（有 host 的两种类型才谈主机命中，串口没有该概念）。稿 §4 出稿时把这两件的事写反了，随本条就地回写（第 13 条：引用可达）。⑷ **NAWS 载荷＝宽（列）在前、高（行）在后，各大端两字节**（稿 §0 新增 **F14**）：三条独立读数一致——RFC 1073 §2 的语法行 `IAC SB NAWS WIDTH[1] WIDTH[0] HEIGHT[1] HEIGHT[0] IAC SE`、同条 §6 的例子（80 列×24 行 ⇒ `0 80 0 24`）、本机 GNU inetutils 2.7 客户端在 `TIOCSWINSZ` 设成 20 行×60 列的 pty 上对 `IAC DO NAWS` 实际回的 `FF FB 1F FF FA 1F 00 3C 00 14 FF F0`。稿面原判据 8 写的「rows 在前」是错处，§2／§3 D10 行／§5 尺寸腿／§6 断言（`window_size_command(40, 130)` ⇒ `FF FA 1F 00 82 00 28 FF F0`）与 SVG 屏 B 那串字节全部照此改口；同一条更正撤掉稿 §7 与裁决 7.112 ④ 把 RFC 1073 说成「四字节宽度扩展」的错引——1073 就是 NAWS 本体，只有 `2+2` 字节形态，那条位置该写的是「超过 65535 的尺寸不发」。⑸ **解析器按 F5/F6/F7 落实为可暂停的按字节状态机**：六档（数据／等命令／等选项／SB 选项／SB 载荷／载荷内等终止）可停在任意两个字节之间；未完成的命令段绝不进净数据，单字节命令（NOP/GA/表外）只吞它本身而不吃后一字节，SB 载荷在等到 `IAC SE` 前不回到数据段——畸形载荷宁可持续吞字节，也不把裸字节解码成乱码格。核心证人是等价性用例：同一段字节流按 1 字节／定值分片／整段三种喂法，净数据与待回字节逐字节全等。⑹ **发起序「呼用即记账」**：`opening_commands()` 交出 `IAC DO ECHO`＋`IAC DO SGA` 的同时把这两项立场记成已表态（D3①＋D4① 的合流处），故服务端回 `WILL ECHO` 不再换来第二条 `DO`，第二次呼用回空；`DO ECHO` 明确答 `WONT ECHO`，这是 D7①「不做本地回显、不出提示」在线上唯一可见的那一格；`reset_for_redial()` 交回一个默认构造的自身，解析态／已答记账／状态位／已发尺寸四样一起复位（重连后同一台服务器可以改口）。⑺ **同值去重的比对源是「上一次真的发出去的」**：拖回旧值仍要发，否则服务器停在过期尺寸；越界与 0 值不发也不记账，下一次合法尺寸照样出得去；NAWS 载荷里的 0xFF 与数据段走同一份转义，`24×65535` 展开成四个 `FF`。⑻ **一处与规程文本的既定分歧如实登记、不预建分支**：对端 `DONT NAWS` 只记状态位、**不**据此停发——判据 8（D10② 人改判）定的是无条件下发，而 RFC 1073 §2 有「服务器可禁止后续子协商」一句；差集写进实现注释，真服务器反应归稿 §6 走查第 ⑷ 条，本棒不自行扩面（§4.1 第 1 条）。
+
+**代价与验收**：⑴ 结项读数：`ctest --preset linux -E etest_` **78 项全绿**（本批 +1＝`utest_telnet_negotiation`），`borealis_test_runner` 全跑 **963 案全绿**（批 1 之一后的基线 77 项／953 案，本批 +10 案＝协商件十条）。⑵ 非空转按 §4.4 第 22 条自证**四条变异各转红**：摘 `FF FF` 反转义 ⇒ 3 案红（转义／等价性／复位后数据段），解析态每读打回数据段 ⇒ 断裂案与等价性案红，宽高次序写回「行在前」⇒ 3 案红，摘同值去重 ⇒ 去重案红；变异后实现文件按字节还原再提交。⑶ 一笔**本仓既有事实的修正登记**：`src/CMakeLists.txt` 的 `borealis_core` 源列表是**显式清单**，只有 tests 走 `CONFIGURE_DEPENDS` GLOB——新 TU 不手写进去就在链接期 undefined reference（本棒踩过一次）。AGENTS.md §7 那句「新增 `.cpp` 经 GLOB 自动进构建与测试注册」因此只对测试成立；本条**不改 AGENTS.md**，因为该文件当前 8123 字节、离 8 KiB 静默截断线只剩 69 字节，加不进这句更正——留待下次在 §7 内部做一次等字节或减负的改写时一并落地（细则口径以裁决 7.113⑥ 与本条为准）。⑷ **用户侧仍不可达**：`ConnectionType` 自此有四档、`Profile` 有 `telnet` 子结构，但向导仍是三张类型卡（`SPEC.FEAT.CONN.07` 未动）、装配层没有 Telnet 会话构造，故保存/打开 Telnet 档案的界面路径不存在，只有手工编辑 JSON 才造得出该型档案。⑸ 在册欠账不变：真 telnetd 的 `etest_telnet_server`（F1，本机无 telnetd）、Win32/MSVC 腿未经编译验证（F12）、IPv6（F10，`tcp_connect` 钉死 `AF_INET`，裁决 7.96 的既定收窄）、`CR NUL` 转义与保活半开检测（稿 §7，属**推断／未验证**）、稿 §6 六条真机走查全在册。**批 2（`conn::telnet_connection` + `platform::TcpStream::set_nodelay` + 环回 `itest`）与批 3（向导第四型 + `main.cpp` 装配 + `itest_connection_wizard` 补例 + 词条族）未开工，本条不称「可用」**（§4.4 第 33 条）。
+
 ## v0.112（2026-10-11）**`SPEC.FEAT.CONN.06` Telnet 设计稿收口：D1–D12 逐条裁决，D6／D7 按推荐档、D10 改判「本期顺带做 NAWS」**（`codespec/UI_TELNET.draft.{md,svg,png}` 三件套新增＋状态改口与六处连带回写 + `SPECIFICATIONS.md` 的 CONN.06 现状句 + `PLAN.md` 的 M4 行回写，判据入册为裁决 **7.112**，本条零 `src/` 改动）
 
 **动机**：串口棒（`CONN.05` 批 1–3）在昨天收口，按 `PLAN.md` 的 M4 分期取下一棒＝`SPEC.FEAT.CONN.06`。Telnet 是四类连接里唯一「协议面完全在应用侧」的一条：没有 libssh、没有 termios，只有 TCP 字节流 + IAC 状态机，而既有 `platform::tcp` 腿已在（裁决 7.96 落的，`utest_tcp_loopback` 为证）。按 AGENTS §4.4 的 UI 件节奏先出三件套送评审（稿入 `codespec/`），同日经人裁 D6／D7 按推荐、**D10 改判**；本条不落 `src/`，实现按稿 §4 分三批。

diff --git a/codespec/PLAN.md b/codespec/PLAN.md
@@ -83,7 +83,7 @@
 | `SPEC.FEAT.CONN.03` | SSH 档案管理 | P1 | M3；**已落（2026-10-09）**：数据模型＋config::Store 第五域（裁决 7.93）＋侧栏消费（分组/收藏/搜索/quick connect/`~/.ssh/config` 只读导入），ProxyJump 延后 |
 | `SPEC.FEAT.CONN.04` | SFTP 浏览器 | P2 | M3；**已落（2026-10-09）**：纯逻辑模型＋libssh 传输腿＋右停靠双栏面板（设计稿 D1–D9 收口，裁决 7.95）；递归目录传输/拖拽对传/chmod/队列持久化延后 |
 | `SPEC.FEAT.CONN.05` | 串口终端 | P2 | M4；**批 1–3 已落（2026-10-11）**：档案模型 + `conn::serial_model` + `platform::serial` 两腿 + `flow` 键（裁决 7.107）→ `conn::SerialConnection` + `Session` 写出侧行尾折算 + 替身设备 `itest`（裁决 7.108）→ 向导第三型（三张类型卡 + 串口九行 + 设备三件套）+ `ui::serial_format` + `main.cpp` 串口装配（枚举快照/重启分流/`serial.set_baud` 命令）+ 核对表七行改判 `Wired`（裁决 7.111），`src/main.cpp` 的两条 `TODO(SPEC.FEAT.CONN.05)` 全闭合；**真机走查未做 ⇒ 不称「可用」**，欠账两条＝真设备 `etest_serial_device`（F1 的 EACCES 挡住）与稿 §6 六条走查（含置灰颜色），Win32/MSVC 腿未编译验证（F10） |
-| `SPEC.FEAT.CONN.06` | Telnet | P2 | M4；**设计稿已收口（2026-10-11，裁决 7.112）**：稿 §3 的 D1–D12 经人逐条裁——D6／D7 按推荐档、**D10 改判「本期顺带做 `NAWS`」**、其余九条按推荐；三批**均未开工**（批 1＝档案模型 + `conn::telnet_negotiation` 纯逻辑件，批 2＝`conn::telnet_connection` + `TcpStream::set_nodelay` + 环回 `itest`，批 3＝向导第四型 + `main.cpp` 装配）⇒ **实现未落，不称「可用」**；在册欠账四条＝`etest_telnet_server`（本机无 telnetd）、Win32/MSVC 腿未编译验证、IPv6（`tcp_connect` 钉死 `AF_INET`）、稿 §6 六条真机走查 |
+| `SPEC.FEAT.CONN.06` | Telnet | P2 | M4；**设计稿已收口（2026-10-11，裁决 7.112）**：稿 §3 的 D1–D12 经人逐条裁——D6／D7 按推荐档、**D10 改判「本期顺带做 `NAWS`」**、其余九条按推荐；**批 1 已落地（2026-10-11，裁决 7.113）**＝档案第四型（`profile.h`/`store.cpp`/`profile.cpp`/`profile_views` 与三件 `utest` 补例）+ `conn/telnet_negotiation` 纯逻辑件与其 `utest`（十条案，含 NAWS 组包与同值去重；载荷次序按稿 §0 新增的 **F14**＝宽在前、高在后）；批 2＝`conn::telnet_connection` + `TcpStream::set_nodelay` + 环回 `itest`，批 3＝向导第四型 + `main.cpp` 装配 + `itest_connection_wizard` 补例 + 词条族，**两批均未开工** ⇒ **用户侧仍不可达，不称「可用」**；在册欠账四条＝`etest_telnet_server`（本机无 telnetd）、Win32/MSVC 腿未编译验证、IPv6（`tcp_connect` 钉死 `AF_INET`）、稿 §6 六条真机走查 |
 | `SPEC.FEAT.CONN.07` | 连接管理器 UI | P1 | M3；**已落（2026-10-09）**：侧栏/向导/凭据询问三件（设计稿 D1–D8 收口），snippets 延后（M4） |
 | `SPEC.FEAT.CONN.08` | SSH 隧道 | P2 | M3；**模型与三式传输腿已落（2026-10-09，裁决 7.96）**：`tunnel_model`/`tunnel_socks`/`tunnel_client` + 平台 TCP 腿；**UI 设计稿已收口（2026-10-09，裁决 7.97）**：D1–D7 按推荐、D8 改判本期做 autostart、D9 改判逐条可配重试；**隧道管理 UI 已落（2026-10-09，裁决 7.98）**：`tunnel_panel`/`tunnel_format` + 装配层持有隧道与启动序自启，`itest_tunnel_panel` 八例真派发；欠：真转发待 sshd 补 etest、UI 待真机走查 |
 | `SPEC.FEAT.CONN.09` | 凭据安全存储 | P1 | M3；**模型与询问腿已落（2026-10-09，裁决 7.93/7.94）**：句柄永不持明文＋掩码询问对话框（降级腿）；真实 OS 后端（libsecret/Keychain/CredMan）留独立任务 |
